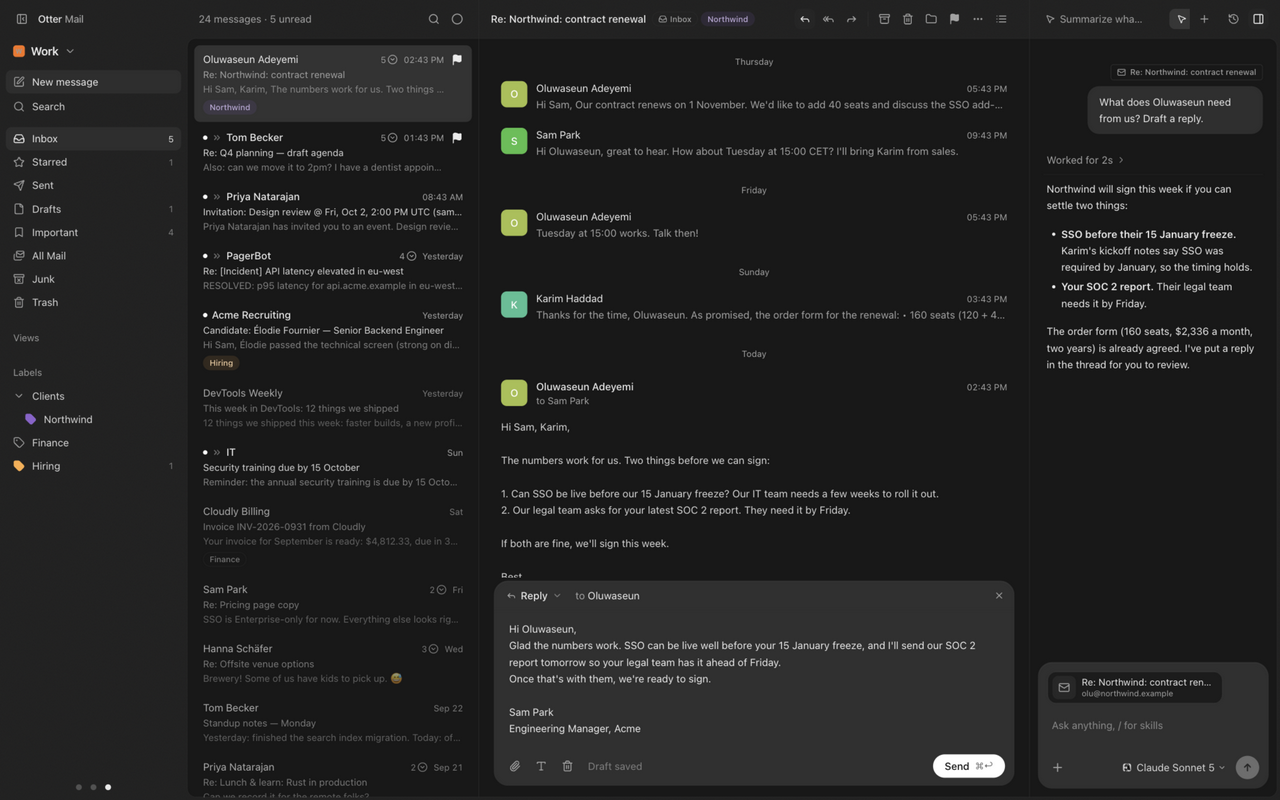
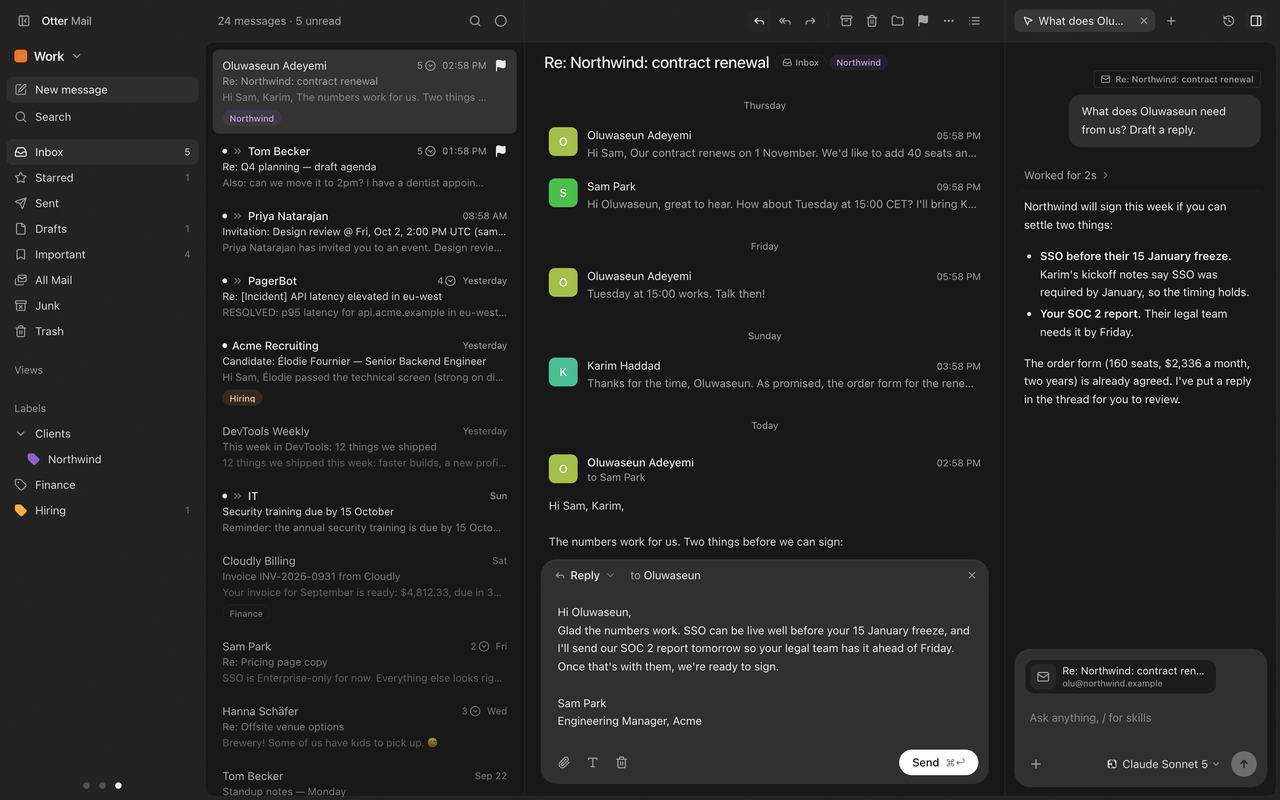
Landing: retina hero screenshot and a calm background scoped to the hero
The screenshot is now a 3200x2000 WebP (255 KB) instead of a 1280x800 PNG. The
page-wide glow is replaced by soft glows and faint ripples behind the hero that
fade out before the features.

diff --git a/site/public/index.html b/site/public/index.html
@@ -16,36 +16,38 @@
   </head>
   <body class="landing">
     <main>
-      <header class="hero">
-        <img class="icon" src="/icon.png" width="88" height="88" alt="Otter Mail" />
-        <h1>Email, calm and&nbsp;fast.</h1>
-        <p class="tagline">
-          A quiet mail client for Gmail and IMAP. On your Mac, in your browser, on iOS.
-        </p>
-        <p class="actions">
-          <a class="button" href="https://github.com/ckafrouni/otter-mail/releases/latest"
-            >Download for macOS</a
-          >
-          <a class="button secondary" href="/app">Open in your browser</a>
-        </p>
-        <p class="note">
-          <a
-            href="mailto:chris.kafrouni@gmail.com?subject=Otter%20Mail%20for%20iOS%20(TestFlight)&body=Hi%2C%20please%20add%20me%20to%20the%20Otter%20Mail%20iOS%20TestFlight.%0A%0AThe%20email%20of%20my%20Apple%20ID%3A%20"
-            >iOS on TestFlight</a
-          >
-          · Free ·
-          <a href="https://github.com/ckafrouni/otter-mail">Open source</a>
-        </p>
-      </header>
+      <div class="stage">
+        <header class="hero">
+          <img class="icon" src="/icon.png" width="88" height="88" alt="Otter Mail" />
+          <h1>Email, calm and&nbsp;fast.</h1>
+          <p class="tagline">
+            A quiet mail client for Gmail and IMAP. On your Mac, in your browser, on iOS.
+          </p>
+          <p class="actions">
+            <a class="button" href="https://github.com/ckafrouni/otter-mail/releases/latest"
+              >Download for macOS</a
+            >
+            <a class="button secondary" href="/app">Open in your browser</a>
+          </p>
+          <p class="note">
+            <a
+              href="mailto:chris.kafrouni@gmail.com?subject=Otter%20Mail%20for%20iOS%20(TestFlight)&body=Hi%2C%20please%20add%20me%20to%20the%20Otter%20Mail%20iOS%20TestFlight.%0A%0AThe%20email%20of%20my%20Apple%20ID%3A%20"
+              >iOS on TestFlight</a
+            >
+            · Free ·
+            <a href="https://github.com/ckafrouni/otter-mail">Open source</a>
+          </p>
+        </header>
 
-      <figure class="shot">
-        <img
-          src="/screenshot.png"
-          width="1280"
-          height="800"
-          alt="Otter Mail: a mailbox with its labels on the left, the inbox in the middle and a conversation open on the right."
-        />
-      </figure>
+        <figure class="shot">
+          <img
+            src="/screenshot.webp"
+            width="3200"
+            height="2000"
+            alt="Otter Mail: a mailbox with its labels on the left, the inbox in the middle and a conversation open on the right."
+          />
+        </figure>
+      </div>
 
       <section class="features">
         <div>

diff --git a/site/public/style.css b/site/public/style.css
@@ -105,9 +105,46 @@ footer a:hover {
 }
 
 /* The landing page */
+.landing {
+  background: var(--bg);
+  overflow-x: clip;
+}
 .landing main {
   max-width: 66rem;
+  padding-top: 0;
+}
+/* Still water under the hero: a calm glow and faint ripples that fade out before the features. */
+.stage {
+  position: relative;
+  isolation: isolate;
   padding-top: 6rem;
+}
+.stage::before,
+.stage::after {
+  content: "";
+  position: absolute;
+  z-index: -1;
+  top: 0;
+  left: 50%;
+  width: 100vw;
+  height: 64rem;
+  margin-left: -50vw;
+  pointer-events: none;
+}
+.stage::before {
+  background:
+    radial-gradient(ellipse 50% 40% at 50% 0, rgba(150, 175, 195, 0.3), transparent 72%),
+    radial-gradient(ellipse 38% 34% at 12% 24%, rgba(110, 135, 170, 0.22), transparent 72%),
+    radial-gradient(ellipse 38% 34% at 90% 30%, rgba(115, 155, 150, 0.17), transparent 72%);
+  mask-image: linear-gradient(to bottom, #000 0%, #000 45%, transparent 100%);
+}
+.stage::after {
+  background: repeating-radial-gradient(
+    circle at 50% 9rem,
+    transparent 0 5.5rem,
+    rgba(255, 255, 255, 0.055) 5.5rem calc(5.5rem + 1px)
+  );
+  mask-image: radial-gradient(ellipse 50% 55% at 50% 0, #000 0%, transparent 100%);
 }
 .hero {
   text-align: center;
@@ -202,7 +239,7 @@ footer a:hover {
   }
 }
 @media (max-width: 34rem) {
-  .landing main {
+  .stage {
     padding-top: 4rem;
   }
   .features {
@@ -218,6 +255,13 @@ footer a:hover {
   }
 }
 @media (prefers-reduced-motion: no-preference) {
+  .stage::before {
+    animation: drift 48s ease-in-out infinite alternate;
+  }
+  .stage::after {
+    animation: breathe 36s ease-in-out infinite alternate;
+    transform-origin: 50% 9rem;
+  }
   .hero > *,
   .shot {
     animation: rise 0.7s cubic-bezier(0.2, 0.7, 0.2, 1) backwards;
@@ -242,5 +286,15 @@ footer a:hover {
   from {
     opacity: 0;
     transform: translateY(0.75rem);
+  }
+}
+@keyframes drift {
+  to {
+    transform: translate3d(3%, 1.5rem, 0) scale(1.05);
+  }
+}
+@keyframes breathe {
+  to {
+    transform: scale(1.08);
   }
 }
